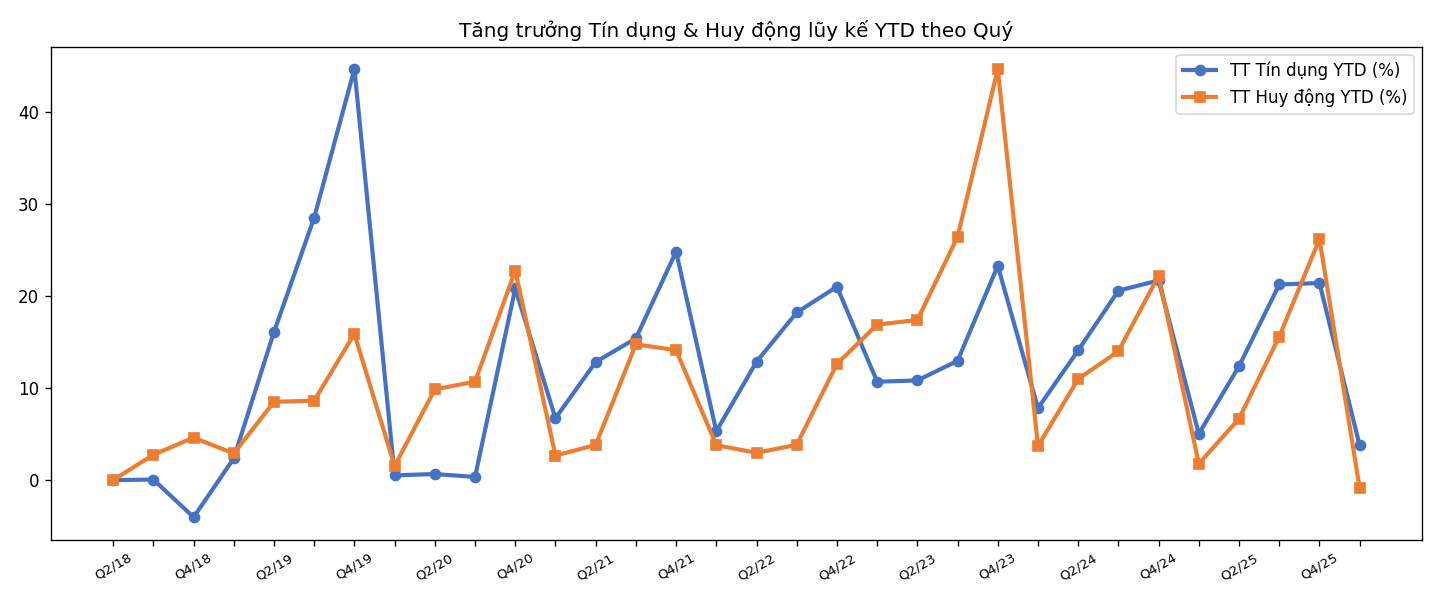
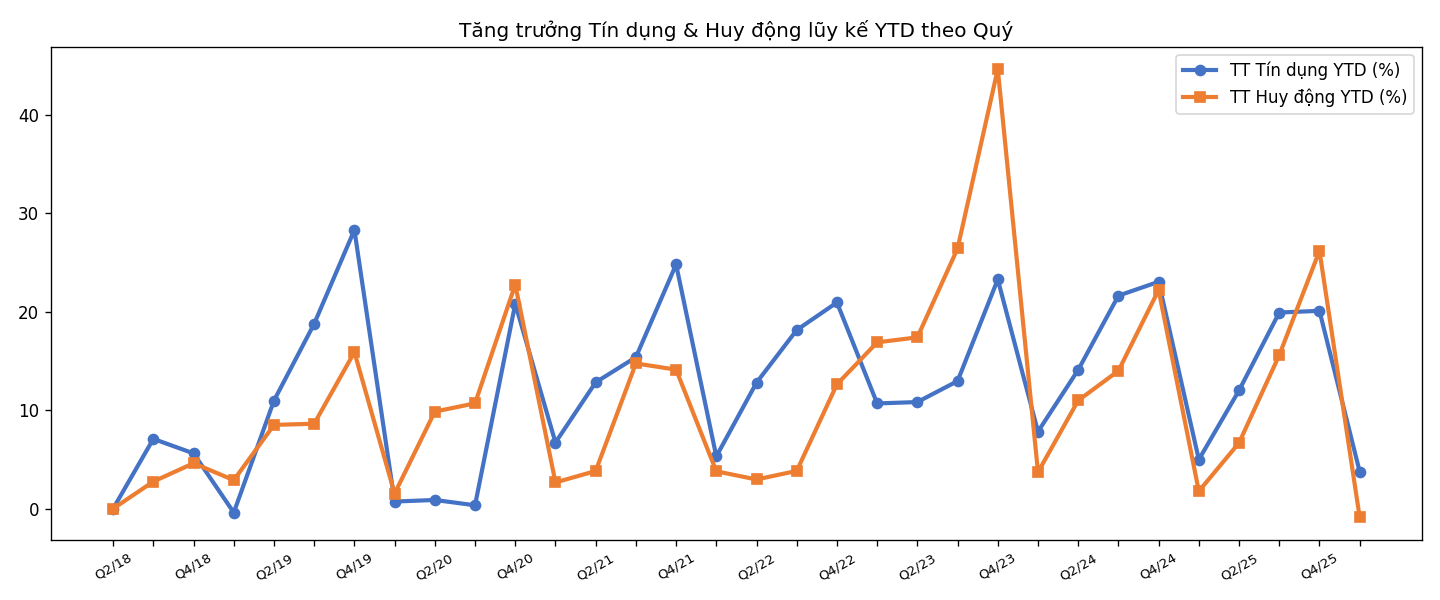
Fix Credit YTD growth calculation by replacing buggy Vietcap NOTES account (nob47/nob48) with correct Balance Sheet corporate bond account (bsb108)

diff --git a/template_banking.py b/template_banking.py
@@ -373,7 +373,7 @@ def run_banking_analysis(ticker: str, raw_data: dict) -> bool:
     nim_hist = [round(nii_hist[i] / ((iea_end_hist[i-1] + iea_end_hist[i]) / 2 if i > 0 else iea_end_hist[i]) * 100, 2) for i in range(len(years_hist))]
     
     # LDR detailed components according to SBV Circular 22 & Circular 26 (Treasury deposits roadmap)
-    tpdn_hist = [get_yr(nt_recs, y, "nob47") or get_yr(nt_recs, y, "nob48") or 0 for y in years_hist]
+    tpdn_hist = [get_yr(bs_recs, y, "bsb108") for y in years_hist]
     kbnn_hist = [get_yr(bs_recs, y, "bsb110") + get_yr(bs_recs, y, "bsb111") for y in years_hist]
     ky_quy_hist = [get_yr(nt_recs, y, "nob73") or get_yr(nt_recs, y, "nob75") or 0 for y in years_hist]
     voncg_hist = [get_yr(bs_recs, y, "bsb115") for y in years_hist]
@@ -568,7 +568,7 @@ def run_banking_analysis(ticker: str, raw_data: dict) -> bool:
             labels_g.append(f"Q{q_num}/{str(yr)[-2:]}")
             
             l_val = q_rec.get("bsb103", 0) / 1e9
-            tb_val = (q_rec.get("nob47", 0) or q_rec.get("nob48", 0) or 0) / 1e9
+            tb_val = (q_rec.get("bsb108", 0) or 0) / 1e9
             credit_absolute.append(l_val + tb_val)
             
             d_val = q_rec.get("bsb113", 0) / 1e9
@@ -580,7 +580,7 @@ def run_banking_analysis(ticker: str, raw_data: dict) -> bool:
             yr = q_rec.get("yearReport", 2026)
             q4_prev = next((x for x in reversed(q_bs_sorted_all) if x.get("yearReport") == yr - 1 and x.get("lengthReport") == 4), None)
             if q4_prev:
-                c_prev = (q4_prev.get("bsb103", 0) + (q4_prev.get("nob47", 0) or q4_prev.get("nob48", 0) or 0)) / 1e9
+                c_prev = (q4_prev.get("bsb103", 0) + (q4_prev.get("bsb108", 0) or 0)) / 1e9
                 f_prev = (q4_prev.get("bsb113", 0) + q4_prev.get("bsb116", 0) + (q4_prev.get("bsb110", 0) or q4_prev.get("bsb111", 0) or 0) * get_kbnn_rate(yr-1)) / 1e9
             else:
                 c_prev = credit_absolute[max(0, idx - q_rec.get("lengthReport", 1))]
@@ -1475,11 +1475,11 @@ def run_banking_analysis(ticker: str, raw_data: dict) -> bool:
         
         # 1. Total Credit (Loans + Corporate Bonds) - historical is in billion, quarterly in VND
         loans_prev_yr_end = get_yr(bs_recs, latest_y - 1, "bsb103") or 1.0
-        tpdn_prev_yr_end = get_yr(nt_recs, latest_y - 1, "nob47") or get_yr(nt_recs, latest_y - 1, "nob48") or 0.0
+        tpdn_prev_yr_end = get_yr(bs_recs, latest_y - 1, "bsb108") or 0.0
         credit_prev_yr_end = (loans_prev_yr_end + tpdn_prev_yr_end) * 1e9
         
         loans_curr = q_bs_sorted[-1].get("bsb103", 0)
-        tpdn_curr = q_bs_sorted[-1].get("nob47", 0) or q_bs_sorted[-1].get("nob48", 0) or 0
+        tpdn_curr = q_bs_sorted[-1].get("bsb108", 0) or 0
         credit_curr = loans_curr + tpdn_curr
         
         # 2. Total Funding (Deposits + Bonds + KBNN * rate)